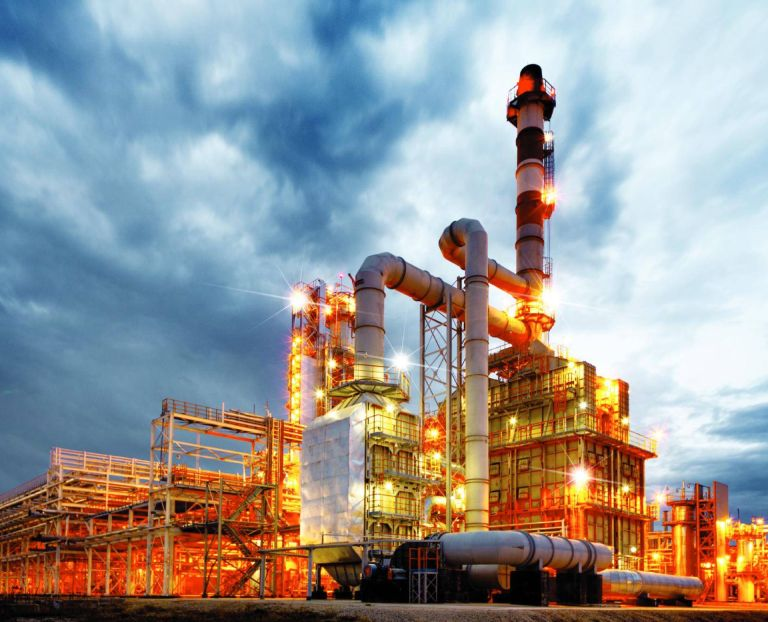
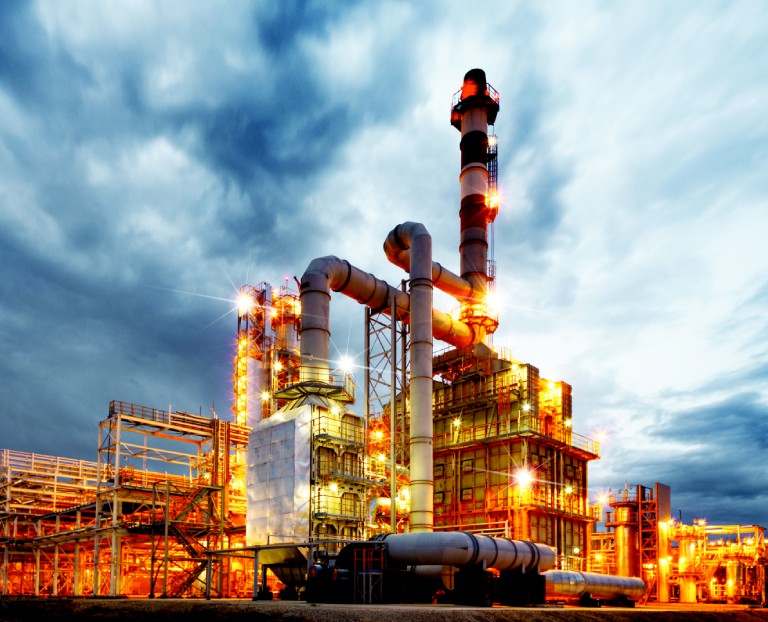
imgs upd

diff --git a/index.php b/index.php
@@ -39,7 +39,7 @@
 
 		<div class="mc-content mc-content-homepage">
 			<img width="1920" height="1280" alt="MECCFOR - Design & Forniture Componenti Meccanici" srcset="
-			./assets/graphics/meccfor-cover-home-low.jpg 768w,
+			./assets/graphics/meccfor-cover-home-low.jpg 960w,
 			./assets/graphics/meccfor-cover-home.jpg 1920w
 			"
 			sizes="100vw" class="mc-cover-image">

diff --git a/en/index.php b/en/index.php
@@ -39,7 +39,7 @@
 
 		<div class="mc-content mc-content-homepage">
 			<img width="1920" height="1280" alt="MECCFOR - Mechanical Components Supplies" srcset="
-			../assets/graphics/meccfor-cover-home-low.jpg 768w,
+			../assets/graphics/meccfor-cover-home-low.jpg 960w,
 			../assets/graphics/meccfor-cover-home.jpg 1920w
 			"
 			sizes="100vw" class="mc-cover-image">
